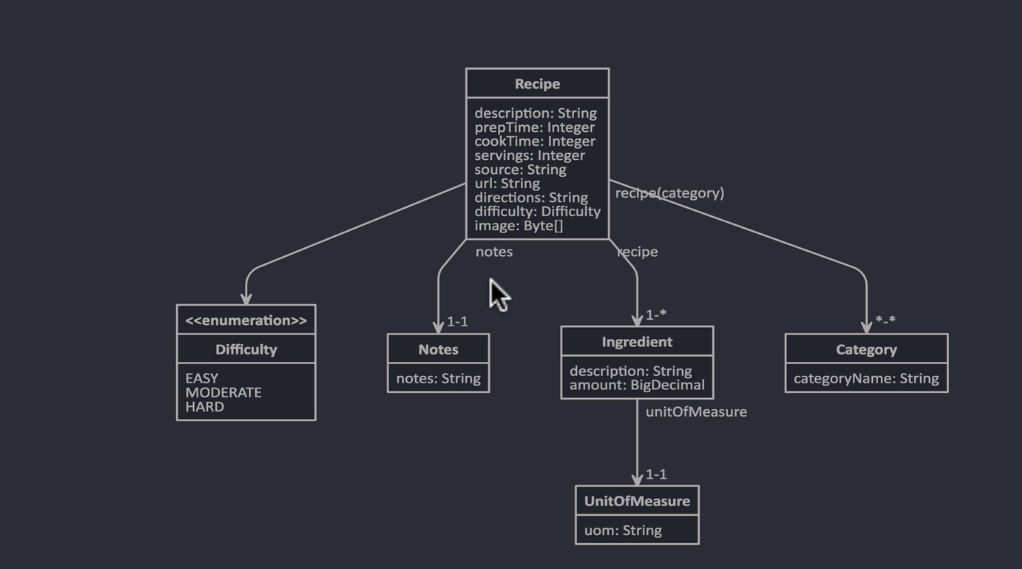
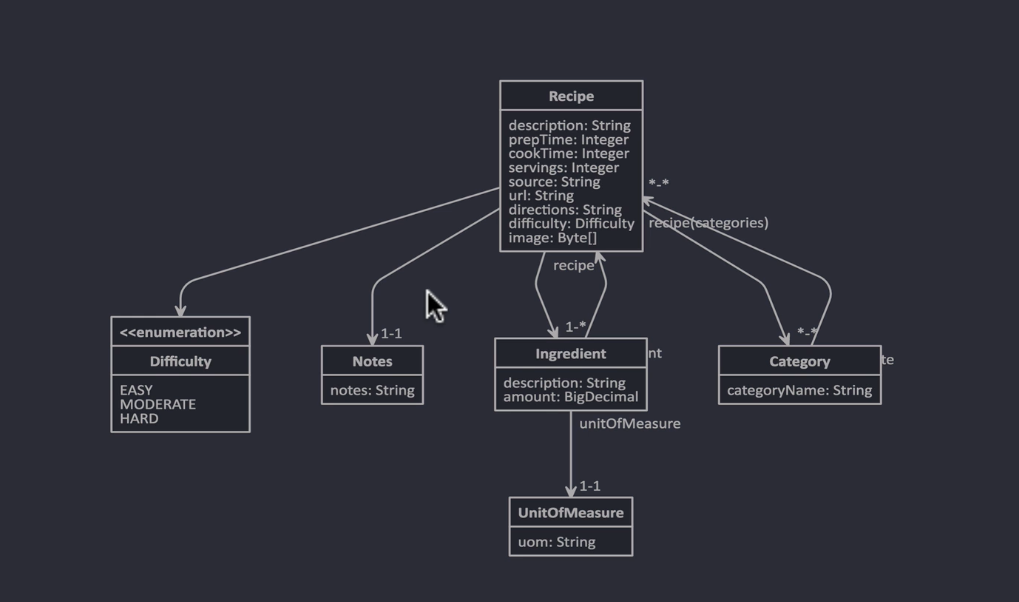
Added Many To Many bidirectional relationship for Recipe -> <- Category

diff --git a/src/main/java/guru/springframework/domain/Category.java b/src/main/java/guru/springframework/domain/Category.java
@@ -1,0 +1,42 @@
+package guru.springframework.domain;
+
+import javax.persistence.*;
+import java.util.Set;
+
+@Entity
+public class Category {
+
+    @Id
+    @GeneratedValue(strategy = GenerationType.IDENTITY)
+    private Long id;
+    private String description;
+
+    // You must add categories so that the bidirectional relationship is mapped to Recipe.categories
+    @ManyToMany(mappedBy = "categories")
+    private Set<Recipe> recipes;
+
+    public Long getId() {
+        return id;
+    }
+
+    public void setId(Long id) {
+        this.id = id;
+    }
+
+    public String getDescription() {
+        return description;
+    }
+
+    public void setDescription(String description) {
+        this.description = description;
+    }
+
+    public Set<Recipe> getRecipes() {
+        return recipes;
+    }
+
+    public void setRecipes(Set<Recipe> recipes) {
+        this.recipes = recipes;
+    }
+
+}

diff --git a/src/main/java/guru/springframework/domain/Recipe.java b/src/main/java/guru/springframework/domain/Recipe.java
@@ -30,6 +30,14 @@ public class Recipe {
     @OneToOne(cascade = CascadeType.ALL)
     private Notes notes;
 
+    @ManyToMany
+    @JoinTable(
+            name = "recipe_category",  // names the db table as recipe_category
+            joinColumns = @JoinColumn(name = "recipe_id"),
+            inverseJoinColumns = @JoinColumn(name = "category_id")
+            )
+    private Set<Category> categories;
+
     public Long getId() {
         return id;
     }
@@ -124,5 +132,13 @@ public class Recipe {
 
     public void setIngredients(Set<Ingredient> ingredients) {
         this.ingredients = ingredients;
+    }
+
+    public Set<Category> getCategories() {
+        return categories;
+    }
+
+    public void setCategories(Set<Category> categories) {
+        this.categories = categories;
     }
 }
